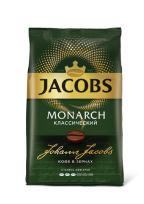
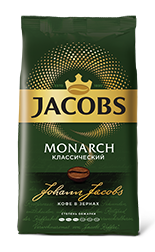
update

diff --git a/css/styles.css b/css/styles.css
@@ -3281,7 +3281,7 @@ table td:nth-child(3) {
 .products-list .products-item:nth-child(3) img {height: auto;width: 114px;}
 .products-list .products-item:nth-child(4) img {height: auto;width: 90px;}
 .products-list .products-item:nth-child(5) img {height: auto;width: 129px;}
-.products-list .products-item:nth-child(6) img {height: auto;width: 144px;}
+.products-list .products-item:nth-child(6) img {height: auto;width: 109px;}
 .products-list .products-item:nth-child(7) img {height: auto;width: 119px;}
 .products-list .products-item:nth-child(8) img {height: auto;width: 119px;}
 .products-list .products-item:nth-child(9) img {height: auto;width: 126px;}
